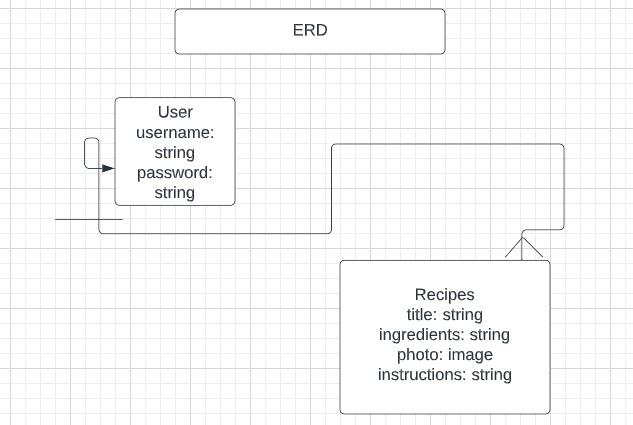
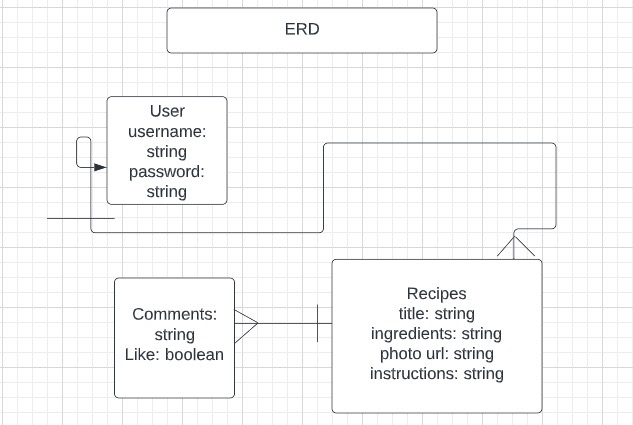
changes made

diff --git a/README.md b/README.md
@@ -49,3 +49,8 @@ SCHEMA: (model)
     - body: String,
     - publishDate: { type: Date, default: Date.now },
     - ** add timestamps as true for best practice
+
+STRETCH GOALS:
+    - give user the ability to upload their own images
+        - (Multer)
+    - 
